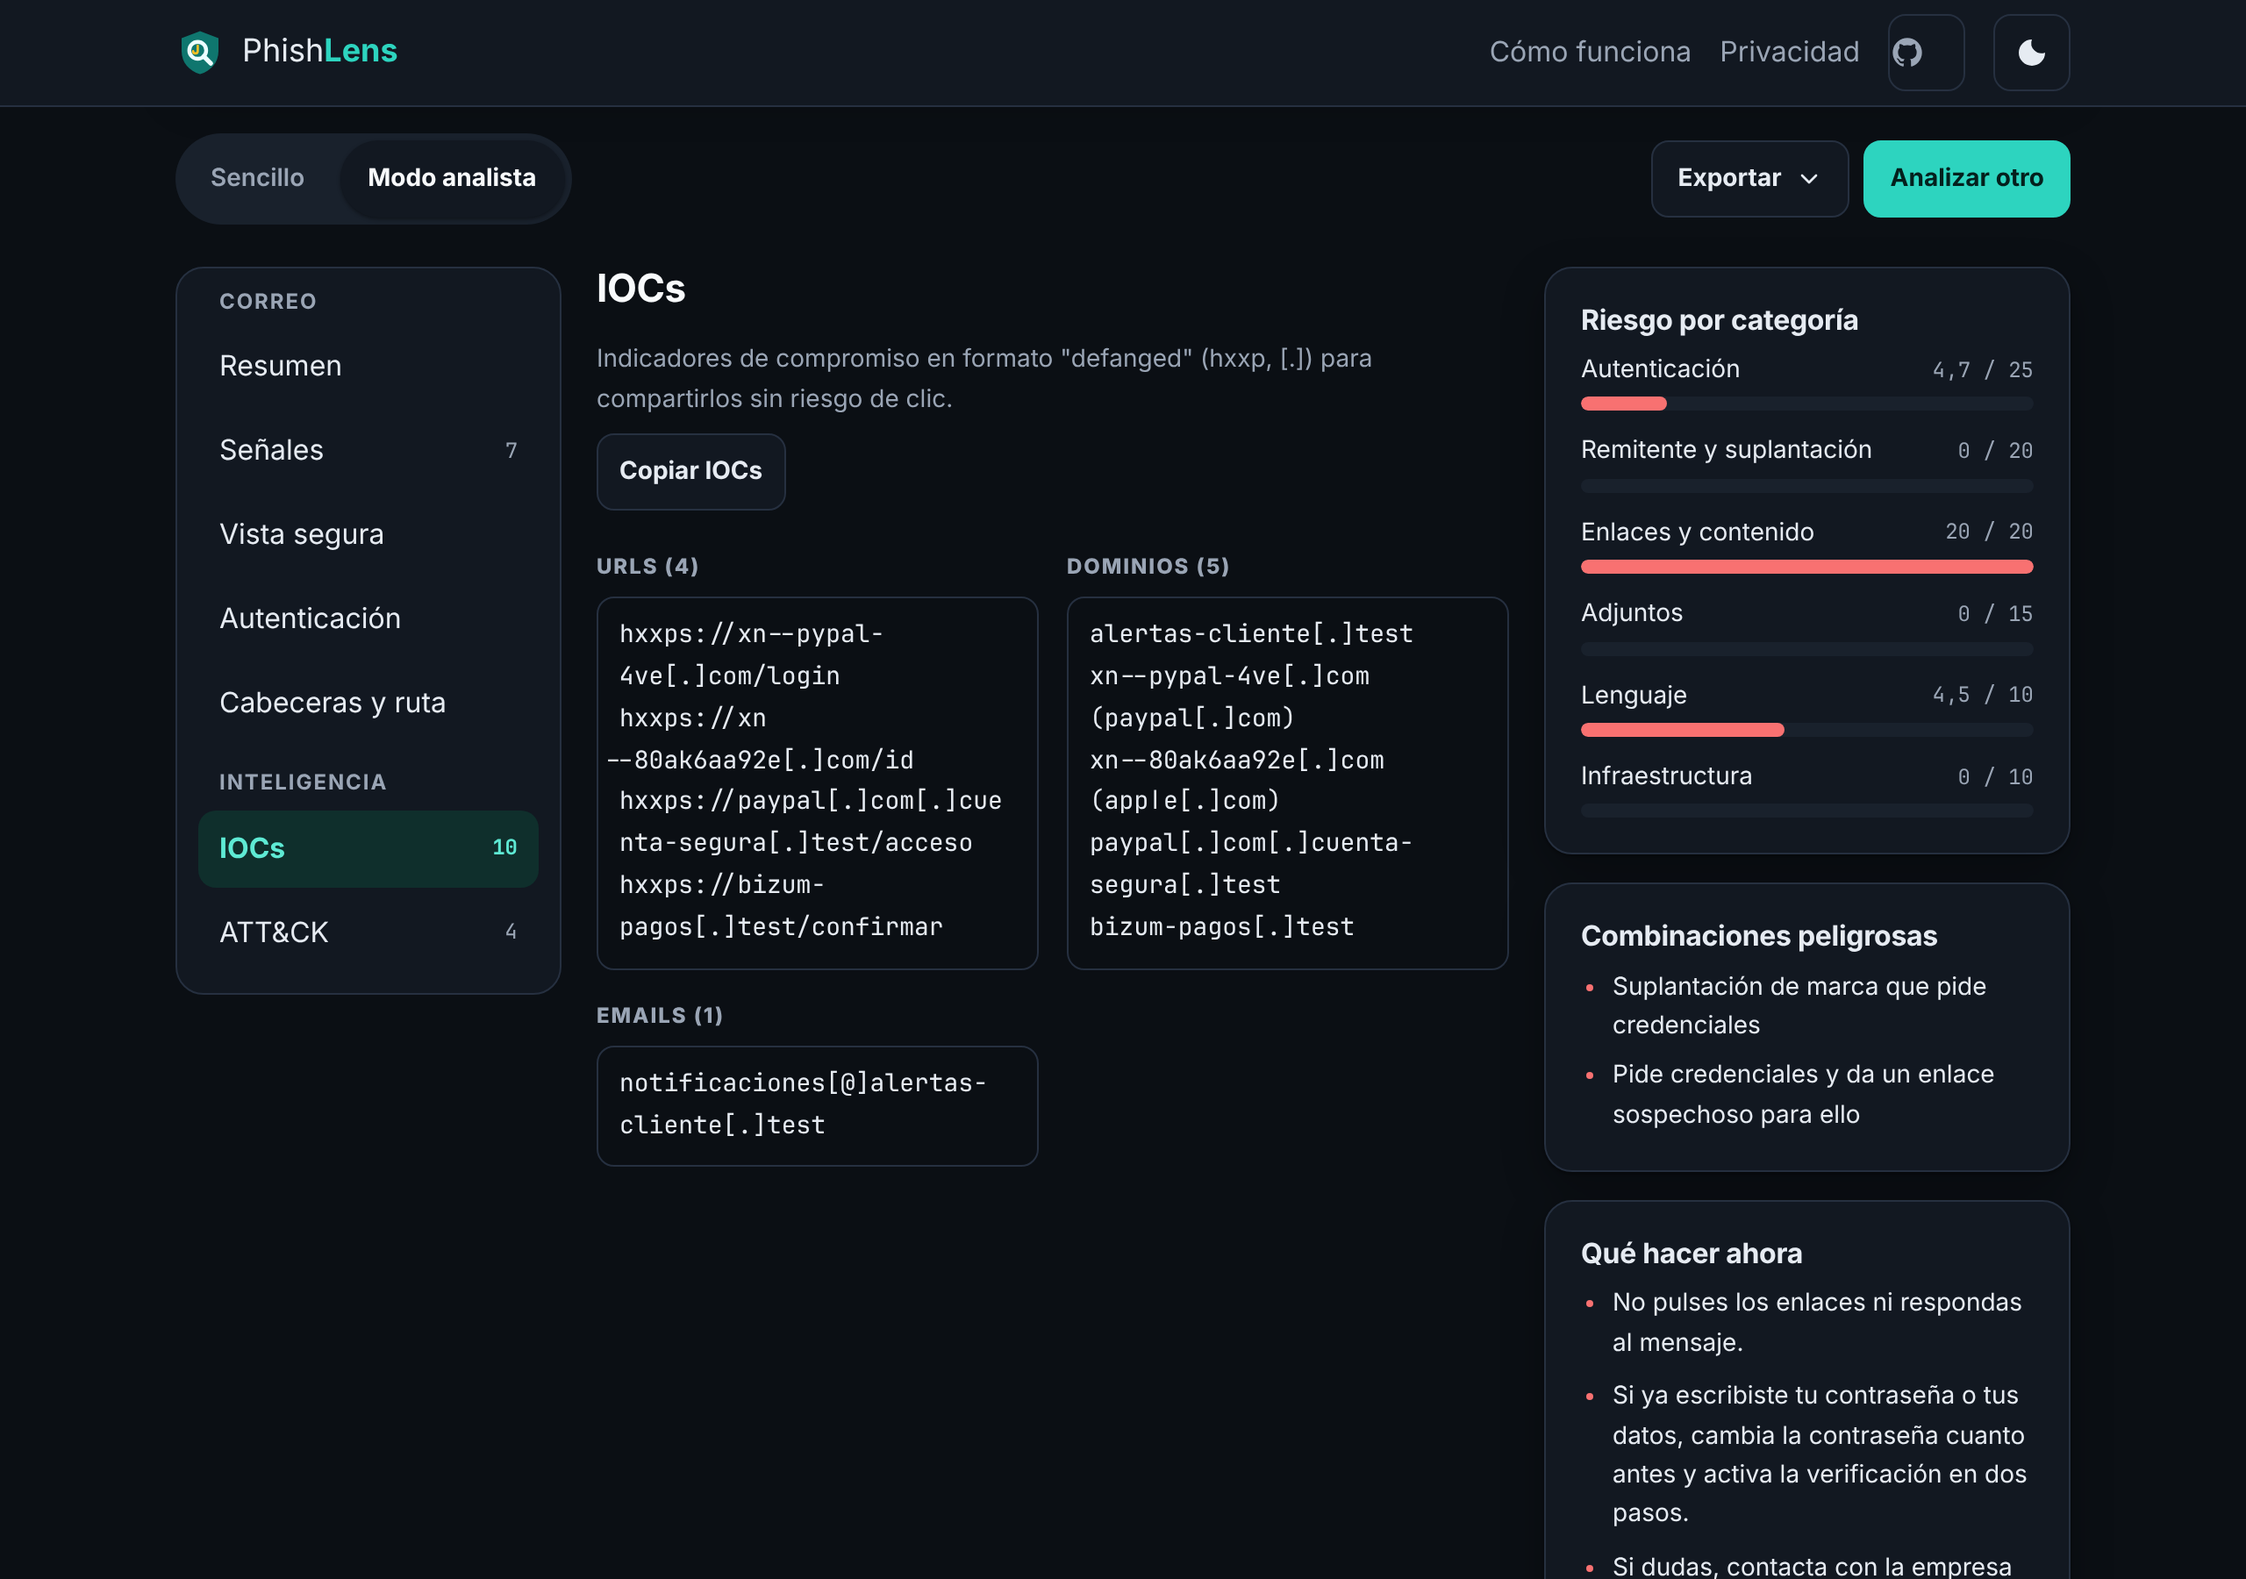
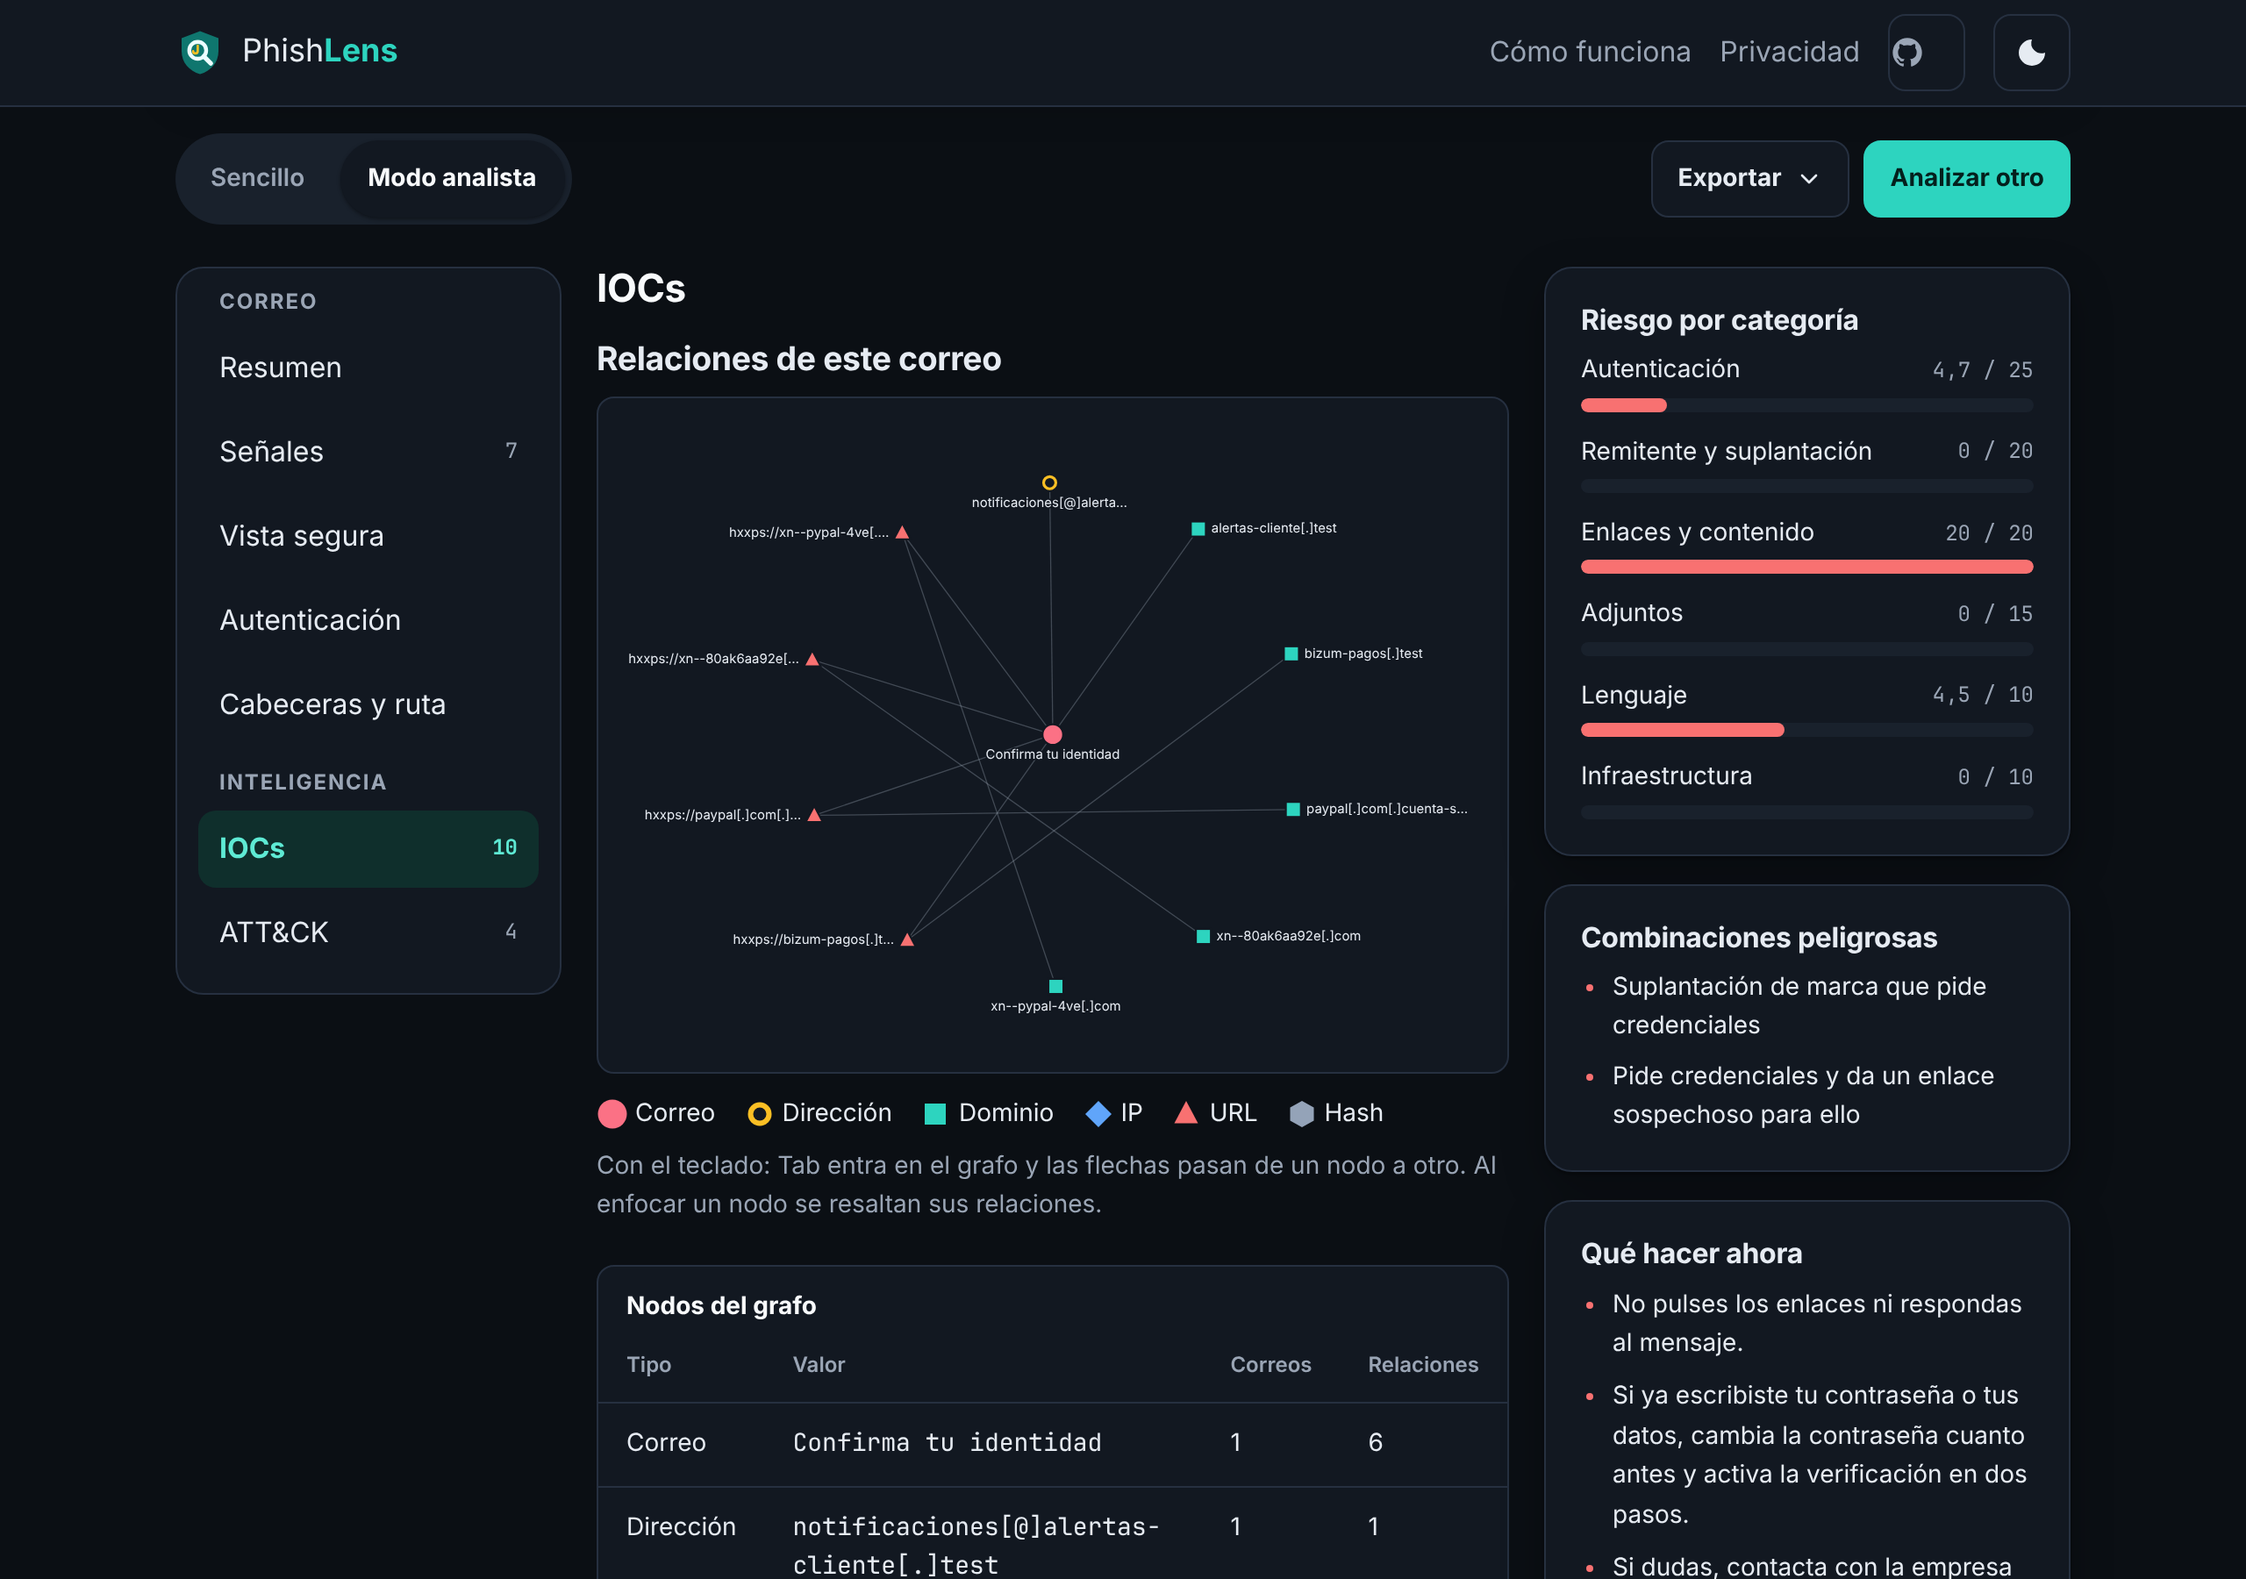
test(proyectoCiber): e2e del lote, el grafo y las campañas
Crítica de diseño y revisión de accesibilidad: rótulos del grafo más grandes,
aviso de campaña que no compite con el veredicto y estado del lote que no se
anuncia en cada correo.

Claude-Session: https://claude.ai/code/session_01UC4GNNW34Qz3kM9ZpXeQZH

diff --git a/tests/e2e/batch.e2e.js b/tests/e2e/batch.e2e.js
@@ -1,0 +1,181 @@
+// Lotes, grafo y campañas en un Chromium real (spec 2.3, §5.2 y §7): privacidad, axe, teclado y diseño.
+import { test, before, after } from 'node:test';
+import assert from 'node:assert/strict';
+import { readFileSync, existsSync } from 'node:fs';
+import { fileURLToPath } from 'node:url';
+import { serve } from './server.js';
+import { openBrowser, watchedPage } from './browser.js';
+import { SAMPLES } from '../../samples/index.js';
+
+const AXE = process.env.AXE_PATH ?? fileURLToPath(new URL('../../node_modules/axe-core/axe.min.js', import.meta.url));
+const noAxe = existsSync(AXE) ? false : `axe-core no está en ${AXE} (npm ci o AXE_PATH)`;
+if (noAxe && process.env.CI) throw new Error(noAxe);
+const { browser, skip: noBrowser } = noAxe ? {} : await openBrowser();
+const skip = noAxe || noBrowser || false;
+const TEN = SAMPLES.slice(0, 10).map((s) => fileURLToPath(new URL(`../../samples/${s.file}`, import.meta.url)));
+const LOT = 'Lote de campaña (4 correos)';
+let server;
+
+before(async () => {
+  if (skip) return;
+  server = await serve();
+});
+after(async () => {
+  await browser?.close();
+  await server?.close();
+});
+
+async function axe(page) {
+  await page.evaluate(readFileSync(AXE, 'utf8'));
+  const { violations } = await page.evaluate(() => window.axe.run(document, { resultTypes: ['violations'] }));
+  return violations.filter((v) => v.impact === 'serious' || v.impact === 'critical')
+    .map((v) => `${v.id} (${v.impact}): ${v.nodes.slice(0, 3).map((n) => n.target.join(' ')).join(' | ')}`);
+}
+
+const overflow = (page) => page.evaluate(() => document.documentElement.scrollWidth - innerWidth);
+
+async function loadLot(page) {
+  await page.getByRole('button', { name: LOT, exact: true }).click();
+  await page.locator('#report .batch-bar').waitFor();
+}
+
+for (const colorScheme of ['light', 'dark']) {
+  test(`privacidad: un lote de 10 correos por todas las vistas sin peticiones externas (${colorScheme})`, { skip }, async () => {
+    const w = await watchedPage(browser, server.url, { colorScheme });
+    w.page.setDefaultTimeout(8000);
+    await w.page.goto(`${server.url}/index.html`);
+    await w.page.setInputFiles('#file-input', TEN);
+    await w.page.locator('#report .batch-bar').waitFor();
+    assert.equal(await w.page.locator('#batch-email option').count(), 10);
+    for (const index of [0, 5, 9]) {
+      await w.page.selectOption('#batch-email', { index });
+      await w.page.locator('#report [data-action="mode-analyst"]').first().click();
+      const links = w.page.locator('#report nav a');
+      await links.first().waitFor();
+      for (let i = 0; i < await links.count(); i++) {
+        await links.nth(i).click();
+        await w.page.waitForTimeout(30);
+      }
+      await w.page.locator('#report [data-action="mode-simple"]').click();
+    }
+    await w.page.waitForTimeout(200);
+    assert.deepEqual(w.external, [], 'peticiones fuera del origen');
+    assert.deepEqual(await w.violations(), [], 'violaciones de CSP');
+    assert.deepEqual(w.errors, [], 'errores de JavaScript');
+    await w.context.close();
+  });
+
+  test(`axe: lote, «IOCs» y «Campañas» sin violaciones serias (${colorScheme})`, { skip }, async () => {
+    const context = await browser.newContext({ colorScheme });
+    const page = await context.newPage();
+    page.setDefaultTimeout(5000);
+    await page.goto(`${server.url}/index.html`);
+    await loadLot(page);
+    const found = (await axe(page)).map((v) => `sencillo: ${v}`);
+    for (const view of ['iocs', 'campanas']) {
+      await page.goto(`${server.url}/index.html#analista/${view}`);
+      await loadLot(page);
+      await page.locator(`#report .view--${view}`).waitFor();
+      found.push(...(await axe(page)).map((v) => `${view}: ${v}`));
+    }
+    assert.deepEqual([...new Set(found)], []);
+    await context.close();
+  });
+}
+
+test('teclado: el grafo es un solo paso de Tab, las flechas lo recorren y resaltan las relaciones', { skip }, async () => {
+  const context = await browser.newContext();
+  const page = await context.newPage();
+  page.setDefaultTimeout(5000);
+  await page.goto(`${server.url}/index.html#analista/iocs`);
+  await loadLot(page);
+  const first = page.locator('.graph__node[tabindex="0"]');
+  await first.focus();
+  const name1 = await page.evaluate(() => document.activeElement.getAttribute('aria-label'));
+  await page.keyboard.press('ArrowRight');
+  const state = await page.evaluate(() => ({
+    name: document.activeElement.getAttribute('aria-label'),
+    tabbable: document.querySelectorAll('.graph__node[tabindex="0"]').length,
+    related: document.querySelectorAll('.graph__node.is-related').length,
+    focusedRelated: document.activeElement.classList.contains('is-related'),
+  }));
+  assert.notEqual(state.name, name1);
+  assert.equal(state.tabbable, 1);
+  assert.ok(state.related >= 2 && state.focusedRelated, JSON.stringify(state));
+  await page.keyboard.press('End');
+  await page.keyboard.press('Tab');
+  assert.equal(await page.evaluate(() => Boolean(document.activeElement.closest('.graph__svg'))), false, 'Tab sale del grafo');
+  await context.close();
+});
+
+test('teclado: elegir la campaña y abrir uno de sus correos lleva el foco al resumen', { skip }, async () => {
+  const context = await browser.newContext();
+  const page = await context.newPage();
+  page.setDefaultTimeout(5000);
+  await page.goto(`${server.url}/index.html`);
+  await loadLot(page);
+  await page.locator('[data-action="view-campaign"]').focus();
+  await page.keyboard.press('Enter');
+  await page.locator('#report .campaign__title').waitFor();
+  await page.locator('#report [data-action="pick-campaign"]').focus();
+  await page.keyboard.press('Enter');
+  assert.equal(await page.evaluate(() => document.activeElement.className), 'campaign__title');
+  const target = page.locator('#report .campaign__email').nth(2);
+  const key = await target.getAttribute('data-key');
+  await target.focus();
+  await page.keyboard.press('Enter');
+  await page.locator('#report .view--resumen').waitFor();
+  assert.equal(await page.evaluate(() => document.activeElement.textContent), 'Resumen');
+  assert.equal(await page.inputValue('#batch-email'), key);
+  await context.close();
+});
+
+test('a 360 px: sin scroll horizontal y objetivos de 44 px en el lote, «IOCs» y «Campañas»', { skip }, async () => {
+  const context = await browser.newContext({ viewport: { width: 360, height: 800 } });
+  const page = await context.newPage();
+  page.setDefaultTimeout(5000);
+  const problems = [];
+  for (const hash of ['', '#analista/iocs', '#analista/campanas']) {
+    await page.goto(`${server.url}/index.html${hash}`);
+    await loadLot(page);
+    if (await overflow(page) > 0) problems.push(`${hash || 'sencillo'}: scroll horizontal`);
+    const small = await page.evaluate(() => [...document.querySelectorAll('#batch-email, #report .campaign-list__btn, #report .campaign__email, #report .campaign-note .btn')]
+      .filter((n) => n.getBoundingClientRect().height < 44 || n.getBoundingClientRect().width < 44)
+      .map((n) => `${n.className} ${Math.round(n.getBoundingClientRect().height)}`));
+    problems.push(...small.map((s) => `${hash || 'sencillo'}: ${s}`));
+  }
+  assert.deepEqual(problems, []);
+  await context.close();
+});
+
+test('un análisis nuevo descarta el lote que sigue en marcha', { skip }, async () => {
+  const context = await browser.newContext();
+  const page = await context.newPage();
+  page.setDefaultTimeout(8000);
+  await page.goto(`${server.url}/index.html`);
+  await page.setInputFiles('#file-input', TEN);
+  await page.getByRole('button', { name: SAMPLES[2].title, exact: true }).click();
+  await page.locator('#report .verdict-card').waitFor();
+  await page.waitForTimeout(1500);
+  assert.equal(await page.locator('#report .batch-bar').count(), 0, 'el lote viejo pintó encima');
+  assert.equal(await page.locator('#batch-status').isHidden(), true);
+  await context.close();
+});
+
+test('lector de pantalla: el estado del lote no se anuncia en cada correo y dice qué se ha saltado', { skip }, async () => {
+  const context = await browser.newContext();
+  const page = await context.newPage();
+  page.setDefaultTimeout(8000);
+  await page.goto(`${server.url}/index.html`);
+  await page.evaluate(() => {
+    window.statusTexts = [];
+    const box = document.querySelector('#batch-progress-text');
+    new MutationObserver(() => window.statusTexts.push(box.textContent)).observe(box, { childList: true, characterData: true, subtree: true });
+  });
+  await page.setInputFiles('#file-input', [...TEN, fileURLToPath(new URL('../../README.md', import.meta.url))]);
+  await page.locator('#report .batch-bar').waitFor();
+  const texts = [...new Set(await page.evaluate(() => window.statusTexts))];
+  assert.ok(texts.length <= 4, texts.join(' | '));
+  assert.equal(texts.at(-1), '10 correos analizados. Un archivo no se ha analizado.');
+  await context.close();
+});

diff --git a/assets/css/components.css b/assets/css/components.css
@@ -198,6 +198,7 @@
 .batch-bar__select:focus-visible { outline: 3px solid var(--focus); outline-offset: 2px; }
 .batch-bar__summary { margin: 0; font-size: var(--text-sm); color: var(--muted); }
 .batch-status { margin-top: var(--space-4); display: grid; gap: var(--space-2); }
+.batch-status[hidden], .batch-status__notice[hidden] { display: none; }
 .batch-status progress { width: 100%; height: 8px; accent-color: var(--accent); }
 .batch-status__text { margin: 0; font-size: var(--text-sm); color: var(--muted); }
 .batch-status__notice { padding: var(--space-3) var(--space-4); border-radius: var(--radius-sm); background: var(--suspicious-soft); color: var(--text); font-size: var(--text-sm); overflow-wrap: anywhere; }
@@ -221,7 +222,7 @@
 .graph__node--url .graph__shape { fill: var(--phishing); }
 .graph__node--hash .graph__shape { fill: var(--info); }
 .graph__node.is-current .graph__shape:first-of-type { stroke: var(--text-strong); stroke-width: 3; }
-.graph__label { fill: var(--text); font-size: var(--text-xs); font-family: var(--sans); paint-order: stroke; stroke: var(--surface); stroke-width: 3px; }
+.graph__label { fill: var(--text); font-size: var(--text-sm); font-family: var(--sans); paint-order: stroke; stroke: var(--surface); stroke-width: 3px; }
 .graph__node:focus-visible .graph__shape:first-of-type { stroke: var(--focus); stroke-width: 4; }
 .graph__svg.has-focus .graph__node:not(.is-related), .graph__svg.has-focus .graph__edge:not(.is-related) { opacity: .2; }
 .graph__edge.is-related { stroke-opacity: .9; stroke-width: 2; }
@@ -249,6 +250,6 @@
 .campaign__reasons li { display: grid; gap: 2px; padding: var(--space-2) var(--space-3); background: var(--surface-2); border-radius: var(--radius-sm); overflow-wrap: anywhere; }
 .campaign__reason { font-weight: 600; }
 .campaign__who { font-size: var(--text-sm); color: var(--muted); }
-.campaign-note { display: flex; flex-wrap: wrap; align-items: center; gap: var(--space-3); padding: var(--space-3) var(--space-4); border-radius: var(--radius-md); background: var(--critical-soft); color: var(--text); }
+.campaign-note { display: flex; flex-wrap: wrap; align-items: center; gap: var(--space-3); padding: var(--space-3) var(--space-4); border-radius: var(--radius-md); background: var(--surface); border: 1px solid var(--border); border-left: 4px solid var(--accent); color: var(--text); }
 .campaign-note p { margin: 0; flex: 1 1 18rem; }
 .campaign-note .btn { min-height: 44px; }

diff --git a/src/ui/app.js b/src/ui/app.js
@@ -237,13 +237,15 @@ async function runBatch(files) {
       if (controller.signal.aborted) return;
       batchProgress.max = n;
       batchProgress.value = i;
-      batchProgressText.textContent = `Analizando ${i} de ${n}…`;
+      // La barra avanza con cada correo, pero el texto (que lee el lector de pantalla) solo cada 10.
+      if (i % 10 === 0 && i < n) batchProgressText.textContent = `Analizando ${i} de ${n}…`;
     },
   });
   // Otro análisis empezó mientras tanto: este lote ya no pinta nada.
   if (!out || controller.signal.aborted || state.batchAbort !== controller) return;
   state.batchAbort = null;
-  batchProgressText.textContent = `${out.entries.length} ${out.entries.length === 1 ? 'correo analizado' : 'correos analizados'}.`;
+  const skippedText = !out.skipped.length ? '' : out.skipped.length === 1 ? ' Un archivo no se ha analizado.' : ` ${out.skipped.length} archivos no se han analizado.`;
+  batchProgressText.textContent = `${out.entries.length} ${out.entries.length === 1 ? 'correo analizado' : 'correos analizados'}.${skippedText}`;
   showBatchNotice(out.warning, out.skipped);
   if (!out.entries.length) {
     batchStatus.hidden = !out.skipped.length && !out.warning;
